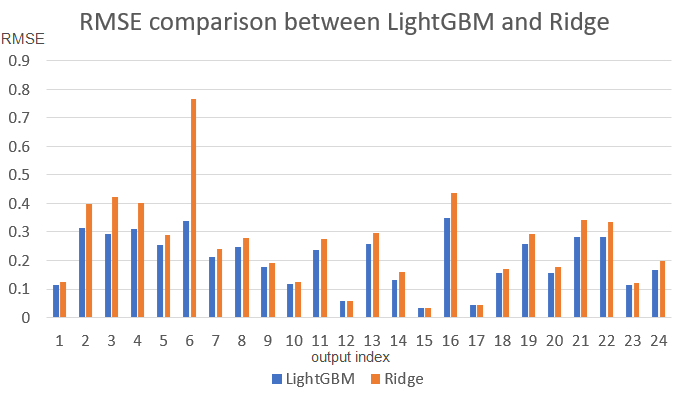
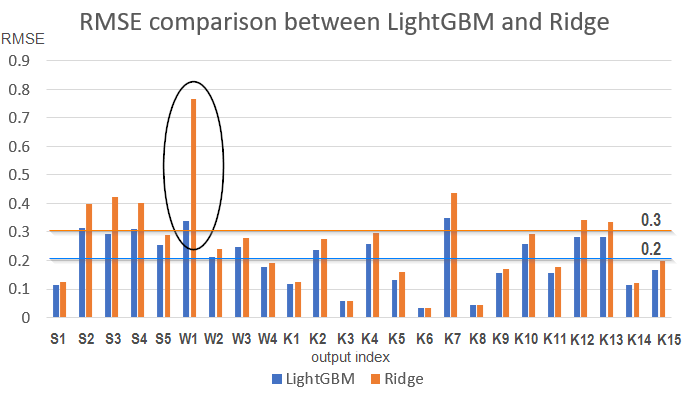
update code to gen pic for report and submission

diff --git a/sandbox/tan/data_histogram.py b/sandbox/tan/data_histogram.py
@@ -7,20 +7,24 @@ def save_object(obj, filename):
         pickle.dump(obj, output, pickle.HIGHEST_PROTOCOL)
 
 #====== Prepare data
-dataset = pd.read_csv('../../../code/gencsv/gencsv_ep100_vec100_Spre.csv', sep = ',', header = None)
+dataset = pd.read_csv('../../data/train.csv', sep = ',', header = 1)
 datalen = dataset.shape[1]
 outputlen = 24
 inputlen = datalen-outputlen
 
-y = dataset[dataset.columns[100:124]]
+y = dataset[dataset.columns[4:28]]
 y.columns = ['s1','s2','s3','s4','s5','w1','w2','w3','w4','k1','k2','k3','k4','k5','k6','k7','k8','k9','k10','k11','k12','k13','k14','k15']
 
 
 ##======Compare result distribution
 n_bins=20
-fig, axs = plt.subplots(1, 1, sharey=True, sharex=False, tight_layout=True)
+fig, axs = plt.subplots(1, 2, sharey=True, sharex=False, tight_layout=True)
 # We can set the number of bins with the `bins` kwarg
-axs.hist(y['s4'], bins=n_bins)
-axs.set_ylabel('Frequency')
-axs.set_ylabel('Probability')
-axs.set_title('Distribution of S4 - Positive Sentiment')
+axs[0].hist(y['w1'], bins=n_bins)
+axs[0].set_ylabel('Frequency')
+axs[0].set_xlabel('Probability')
+axs[0].set_title('W1 (When) - current weather')
+axs[1].hist(y['k3'], bins=n_bins)
+#axs[1].set_ylabel('Frequency')
+axs[1].set_xlabel('Probability')
+axs[1].set_title('K3 (Kind) - Dry weather')

diff --git a/sandbox/tan/LGBM/lightbgm_S.py b/sandbox/tan/LGBM/lightbgm_S.py
@@ -13,7 +13,7 @@ def save_object(obj, filename):
         pickle.dump(obj, output, pickle.HIGHEST_PROTOCOL)
 
 #====== Prepare data
-dataset = pd.read_csv('../../../code/gencsv/gencsv_ep100_vec100_Spre/gencsv_ep100_vec100_Spre.txt', sep = '\t', header = None)
+dataset = pd.read_csv('../../../code/gencsv/gencsv_ep100_vec100_Spre.csv', sep = ',', header = None)
 datalen = dataset.shape[1]
 outputlen = 24
 inputlen = datalen-outputlen
@@ -102,12 +102,12 @@ ax.axhline(y=avg_result, color='r', linestyle='-')
 #plt.ylim(0, 1)
 #
 ##======Compare result distribution
-#n_bins=20
-#fig, axs = plt.subplots(1, 2, sharey=True, sharex=False, tight_layout=True)
-## We can set the number of bins with the `bins` kwarg
-#axs[0].hist(y_test, bins=n_bins)
-#axs[0].set_ylabel('Frequency')
-#axs[0].set_title('S-Actual')
-#axs[1].hist(y_pred, bins=n_bins)
-#axs[1].set_xlabel('Probability')
-#axs[1].set_title('S-Predicted')
+n_bins=20
+fig, axs = plt.subplots(1, 2, sharey=True, sharex=False, tight_layout=True)
+# We can set the number of bins with the `bins` kwarg
+axs[0].hist(y_test, bins=n_bins)
+axs[0].set_ylabel('Frequency')
+axs[0].set_title('S-Actual')
+axs[1].hist(y_pred, bins=n_bins)
+axs[1].set_xlabel('Probability')
+axs[1].set_title('S-Predicted')

diff --git a/sandbox/tan/submission.py b/sandbox/tan/submission.py
@@ -1,5 +1,3 @@
-
-
 from sklearn.linear_model import Ridge
 import numpy as np
 import matplotlib.pyplot as plt
@@ -36,7 +34,7 @@ model_w = load_object('all_model_trained_by_W-data.pkl')
 model_k = load_object('all_model_trained_by_K-data.pkl')
 
 #get id for output
-test_orig = pd.read_csv('test.csv'  ,sep=',',error_bad_lines=False,encoding='utf-8')
+test_orig = pd.read_csv('../../../data/test.csv'  ,sep=',',error_bad_lines=False,encoding='utf-8')
 test_row_id = test_orig["id"].astype(int)
 
 #create output as dataframe
@@ -51,7 +49,7 @@ for i in range(24):
         model = model_w
         test_data = test_data_w
     else :
-        model = model_k
+        model = model_s
         test_data = test_data_k
         
     result = model[i].predict(test_data)
@@ -64,7 +62,7 @@ output_format = '%d'
 for i in range(24):
     output_format = output_format + ',%.8f'
 
-np.savetxt('lgbm_gencsv_ep100_vec100_Spre_predict.csv',output,fmt=output_format,delimiter=',',comments='',header=hdr)
+np.savetxt('lgbm_gencsv_nl_180_lr_007_Pre_S_predict.csv',output,fmt=output_format,delimiter=',',comments='',header=hdr)
 
 
 

diff --git a/sandbox/tan/LGBM/rmse_plot.py b/sandbox/tan/LGBM/rmse_plot.py
@@ -29,11 +29,13 @@ avg_rms
     
 avg_result = np.mean(avg_rms)
 plt.figure(2)
+plt.axis([0, 24, 0, 8])
 fig, ax = plt.subplots(figsize=(10, 6))
 ax.set_title('RMSE from Light GBM')
 ax.set_xlabel('output index')
 #ax.set_xticks(x)
 ax.set_ylabel('RMSE')
+ax.set_ylim([0,0.8])
 ax.bar(list(range(1,25)),avg_rms)
 #fig.show()
 ticks = plt.xticks(np.arange(25), ['']+ list(range(1,25)))
